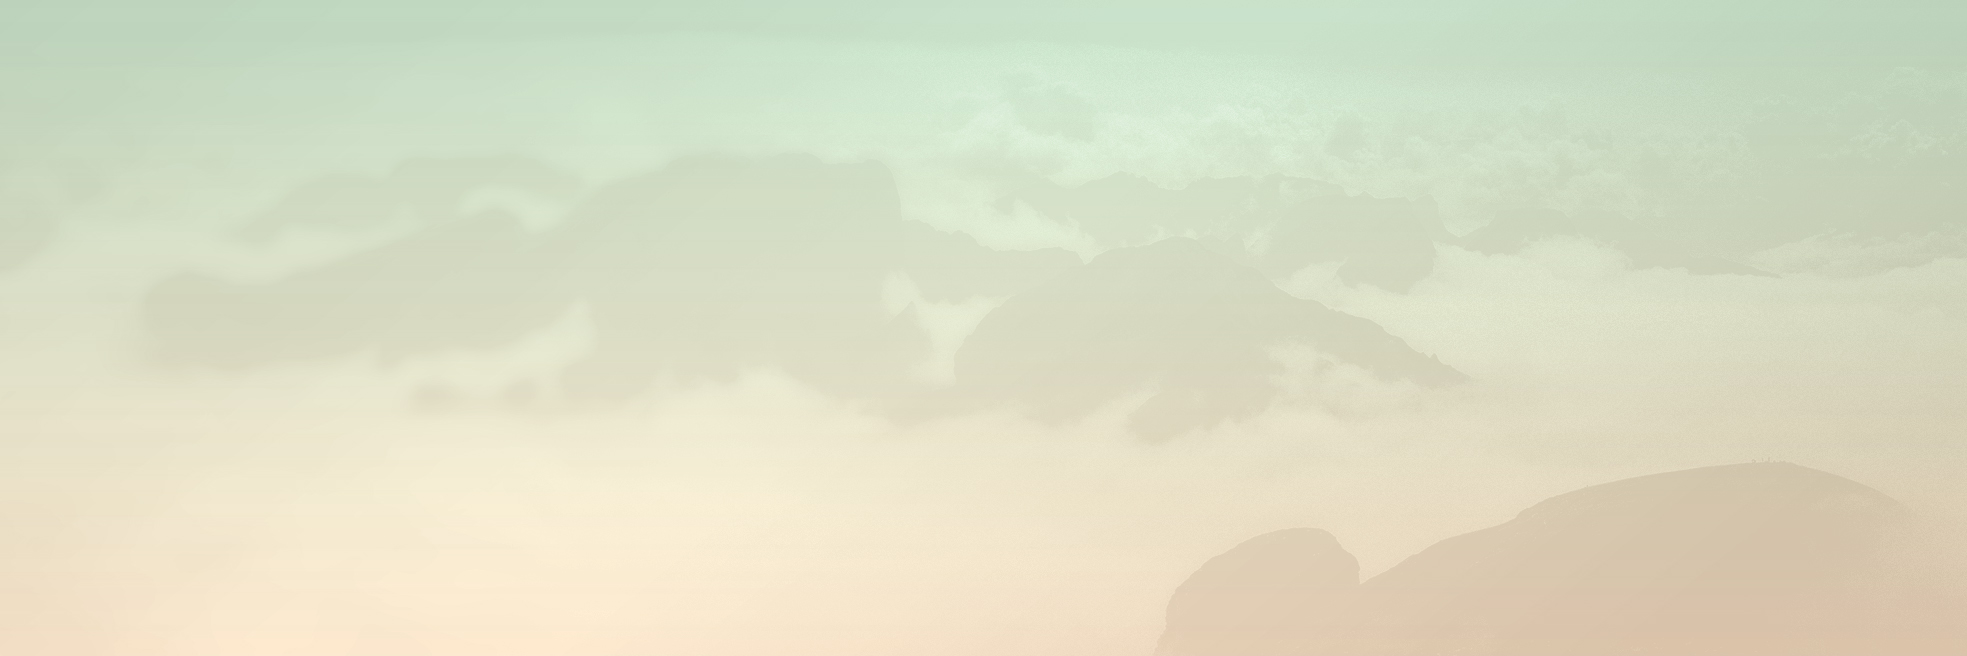
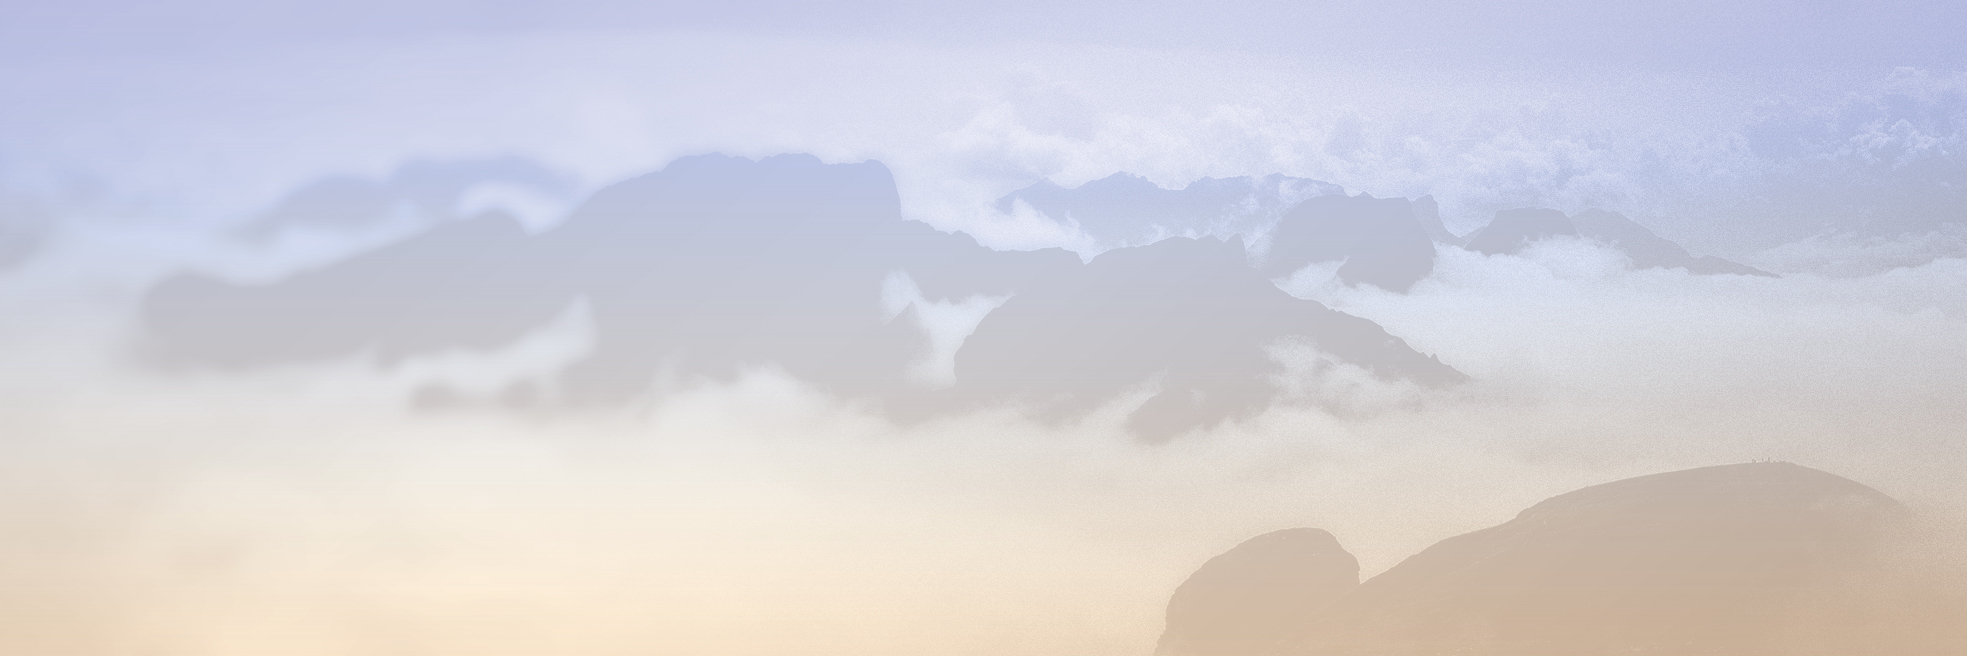
New color combination
Found the nicer combination.

diff --git a/manual-of-me/src/components/Hero.jsx b/manual-of-me/src/components/Hero.jsx
@@ -24,7 +24,7 @@ export default function Hero() {
           href="https://www.manualof.me"
           target="_blank"
           rel="noopener noreferrer"
-          className="fixed top-4 right-4 flex items-center gap-2 text-secondary hover:text-white transition-colors duration-300 [text-shadow:_0_0_20px_rgba(255,255,255,0.8)] z-50"
+          className="fixed top-4 right-4 flex items-center gap-2 text-primary hover:text-white transition-colors duration-300 [text-shadow:_0_0_20px_rgba(255,255,255,0.8)] z-50"
         >
           <span className="text-sm text-primary hover:text-white duration-300">What is Manual of Me?</span>
           <FaQuestionCircle className="w-5 h-5" />

diff --git a/manual-of-me/tailwind.config.js b/manual-of-me/tailwind.config.js
@@ -4,7 +4,7 @@ export default {
   theme: {
     extend: {
       colors: {
-        primary: "#278C82", // Soft Teal
+        primary: "#393d6a", // Soft Teal
         secondary: "#6DA0A6", // Warm Beige
         accent: "#6DA0A6", // Light Pastel Orange
         // dark: "#6A4E34", // Earthy Brown
